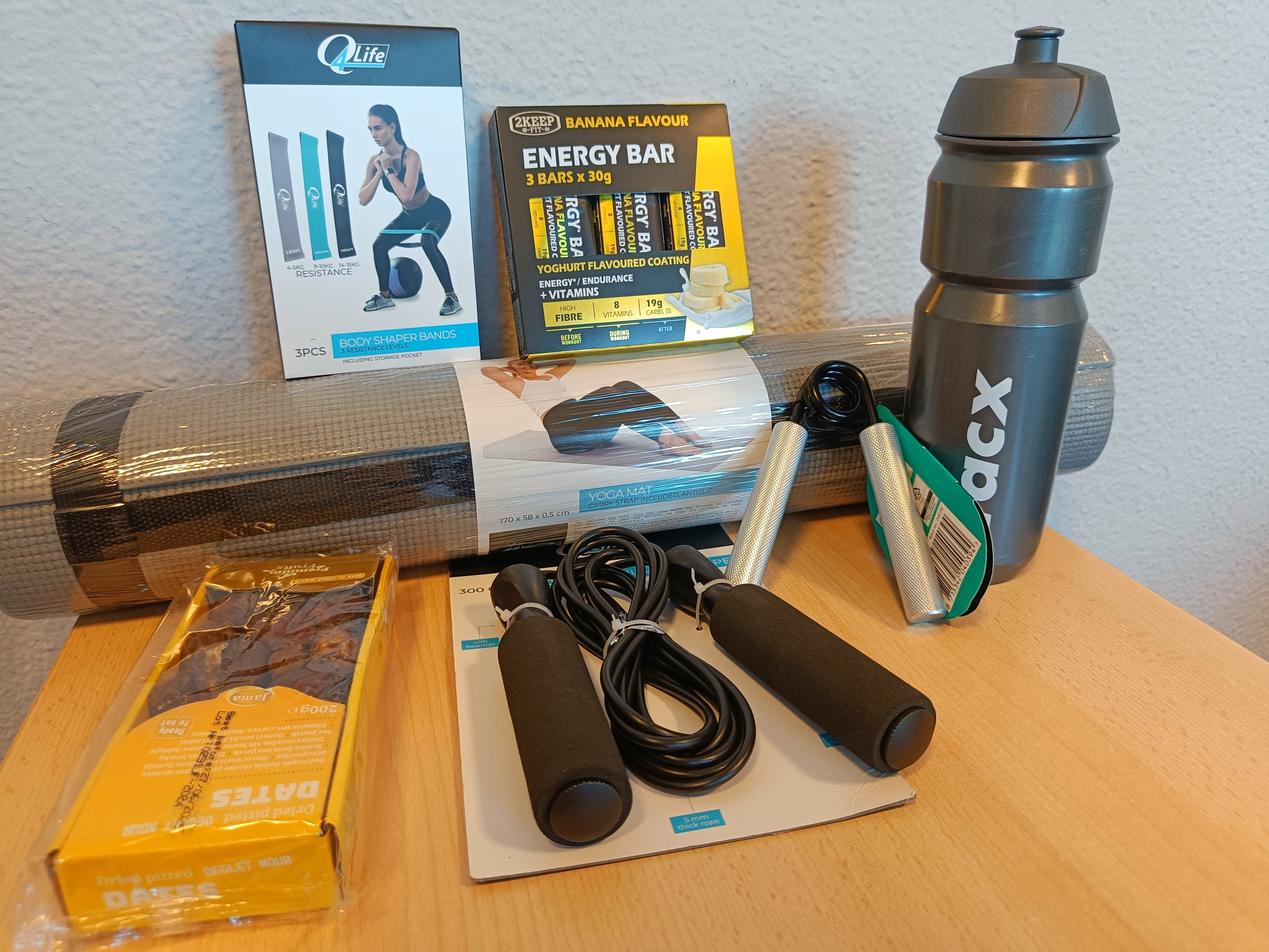
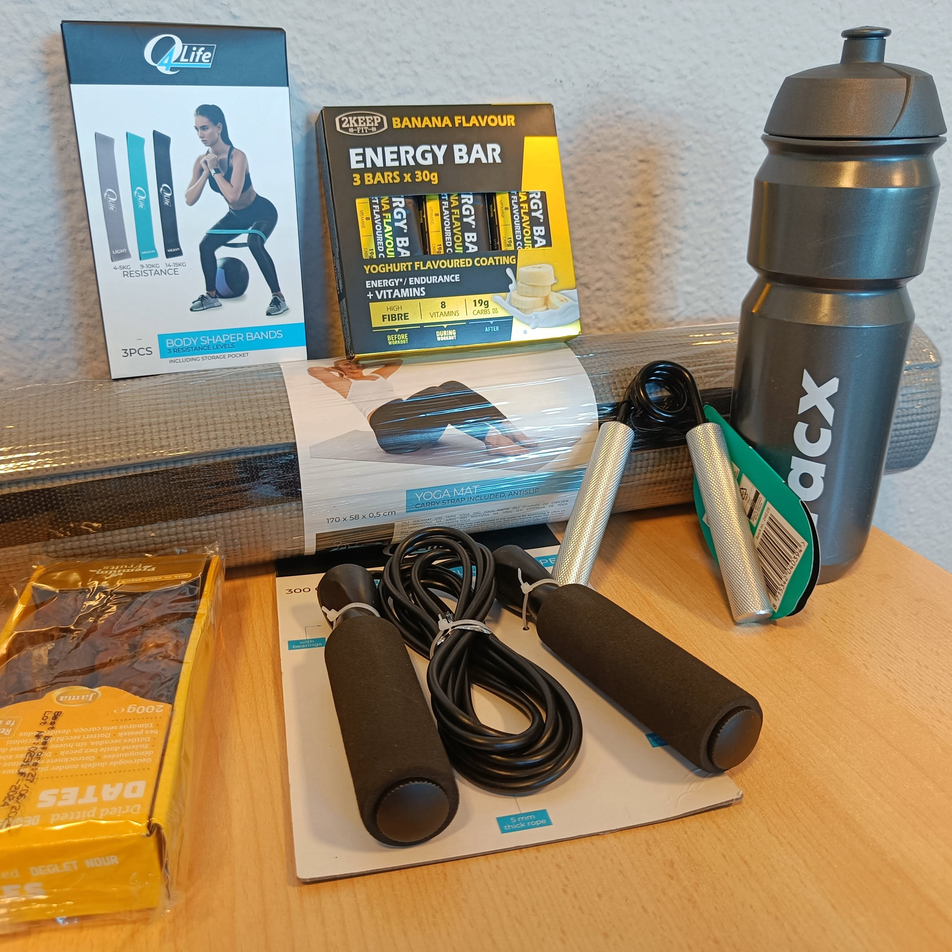
Geschenkmanden laatste caroussel
de laatse caroussellen toegevoegd aan geschenkmanden + de sport afbeelding bijgesneden en gecomprimeerd

diff --git a/Html/ZenZone_Geschenkmanden.html b/Html/ZenZone_Geschenkmanden.html
@@ -208,7 +208,24 @@
               <div class="row mt-5">
                 <div class="col-lg-4 col-md-6 mb-2">
                   <div class="card w-75 mb-3 ms-5">
-                    <img src="../Images/Sport.jpg" class="card-img-top h-100" style="height: 50vh" alt="afbeelding van de items in de sport mand">
+                      <div id="carouselSport" class="carousel slide">
+                        <div class="carousel-inner">
+                          <div class="carousel-item active">
+                              <img src="../Images/Sport.jpg" class="d-block w-100" alt="Afbeelding van de snack attack items">
+                          </div>
+                          <div class="carousel-item">
+                            <img src="../Images/Sport (1).jpg" class="d-block w-100" alt="Afbeelding van de snack attack mand">
+                          </div>
+                        </div>
+                        <button class="carousel-control-prev" type="button" data-bs-target="#carouselSport" data-bs-slide="prev">
+                          <span class="carousel-control-prev-icon" aria-hidden="true"></span>
+                          <span class="visually-hidden">Previous</span>
+                        </button>
+                        <button class="carousel-control-next" type="button" data-bs-target="#carouselSport" data-bs-slide="next">
+                          <span class="carousel-control-next-icon" aria-hidden="true"></span>
+                          <span class="visually-hidden">Next</span>
+                        </button>
+                      </div>
                     <div class="card-body">
                       <p class="card-text">Sport mand items</p>
                     </div>
@@ -318,7 +335,24 @@
                 <div class="col-lg-4 col-md-6">
                   <!-- Start van de kaart -->
                   <div class="card w-75 mb-3 ms-5">
-                    <img src="../Images/SnackAttack(Gluten en lactosevrij).jpg" class="card-img-top h-100" style="height: 50vh" alt="afbeelding van de items in de Snack attack mand">
+                      <div id="carouselSnackAttackGluten&LactoseVrij" class="carousel slide">
+                        <div class="carousel-inner">
+                          <div class="carousel-item active">
+                              <img src="../Images/SnackAttack(Gluten en lactosevrij).jpg" class="d-block w-100" alt="Afbeelding van de snack attack items">
+                          </div>
+                          <div class="carousel-item">
+                            <img src="../Images/SnackAttack(Gluten en lactosevrij) (1).jpg" class="d-block w-100" alt="Afbeelding van de snack attack mand">
+                          </div>
+                        </div>
+                        <button class="carousel-control-prev" type="button" data-bs-target="#carouselSnackAttackGluten&LactoseVrij" data-bs-slide="prev">
+                          <span class="carousel-control-prev-icon" aria-hidden="true"></span>
+                          <span class="visually-hidden">Previous</span>
+                        </button>
+                        <button class="carousel-control-next" type="button" data-bs-target="#carouselSnackAttackGluten&LactoseVrij" data-bs-slide="next">
+                          <span class="carousel-control-next-icon" aria-hidden="true"></span>
+                          <span class="visually-hidden">Next</span>
+                        </button>
+                      </div>
                     <div class="card-body">
                       <p class="card-text">Snack attack (gluten en lactosevrij) mand items</p>
                     </div>
